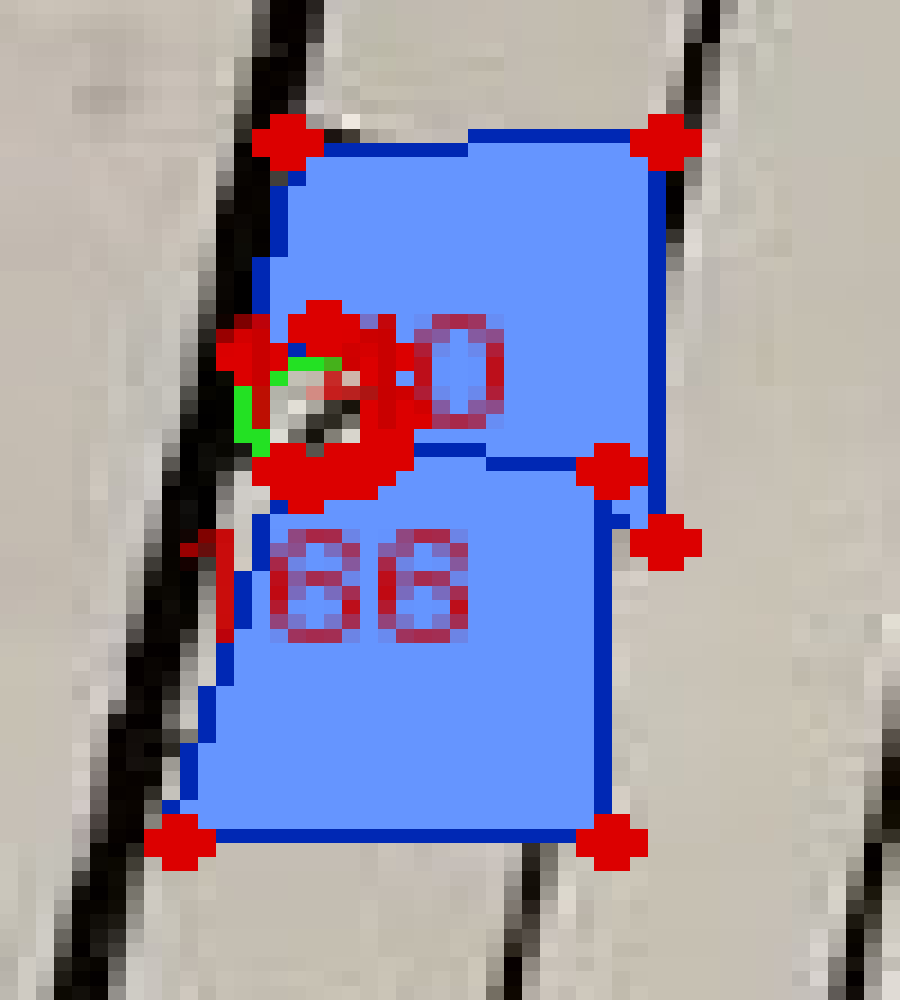
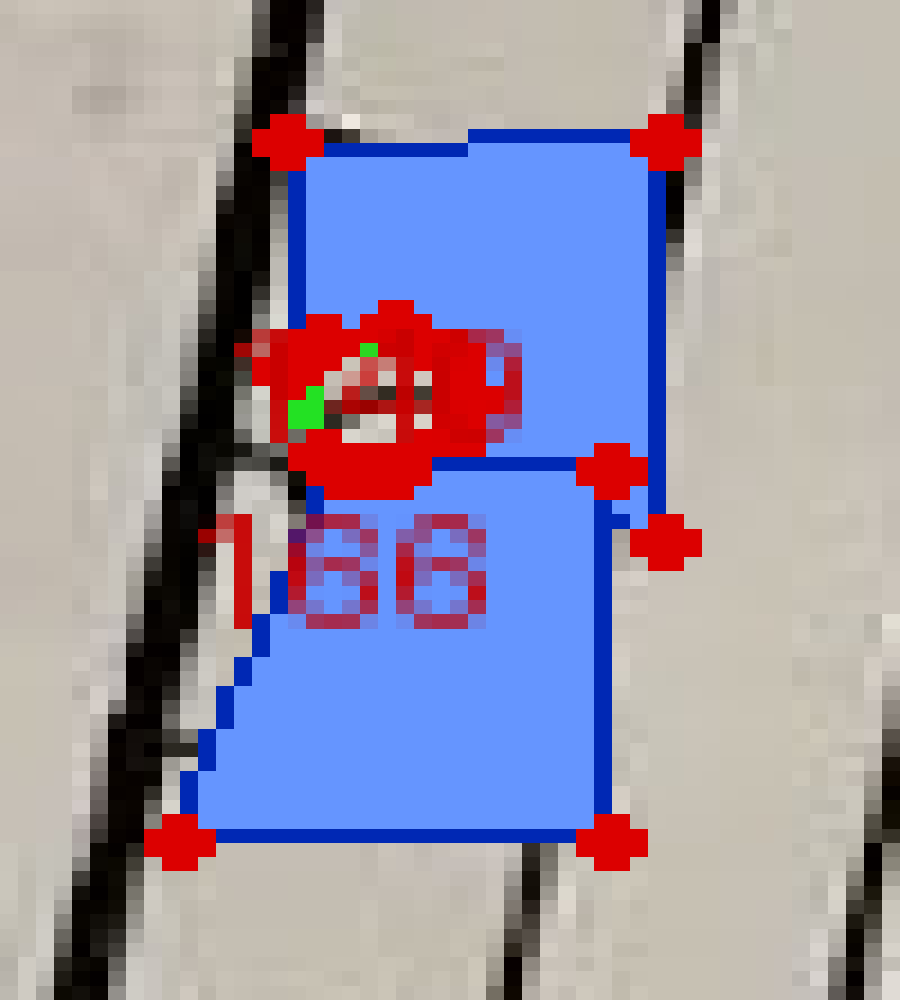
fix: retrace lot 362 polygon to resolve overlap with lot 411 and update dataset

Changed region(s): [[0.1867, 0.186, 0.5911, 0.837]]

diff --git a/scratch/fix_362_overlap.py b/scratch/fix_362_overlap.py
@@ -1,4 +1,4 @@
-"""Retrace lot 362 — small wedge below 411, no overlap."""
+"""Retrace lot 362 — wedge below 411, label inside polygon."""
 import json
 import shutil
 from pathlib import Path
@@ -10,7 +10,7 @@ from PIL import Image, ImageDraw
 W, H = 906, 543
 IDX = 362
 POLY = Path("static/units/lot_plan_polygons.json")
-bak = Path("scratch/lot_plan_polygons_before_fix_362_overlap.json")
+bak = Path("scratch/lot_plan_polygons_before_trace_362.json")
 shutil.copy(POLY, bak)
 
 data = json.loads(POLY.read_text(encoding="utf-8"))
@@ -39,44 +39,17 @@ def to_norm(xy_arr: np.ndarray) -> list:
     return [[float(x / W), float(y / H)] for x, y in xy_arr]
 
 
-def quad_from_hull(hull: np.ndarray) -> np.ndarray:
-    """Reduce a flood hull to a 4-point wedge."""
-    hull = hull.astype(np.float32)
-    if len(hull) == 4:
-        return hull.astype(float)
-    peri = cv2.arcLength(hull, True)
-    for eps in (0.02, 0.03, 0.04, 0.05, 0.06, 0.08, 0.1, 0.15):
-        ap = cv2.approxPolyDP(hull, eps * peri, True).reshape(-1, 2)
-        if len(ap) == 4:
-            return ap.astype(float)
-    if len(hull) == 5:
-        # Drop the single indent vertex on the left edge.
-        xs = hull[:, 0]
-        left = hull[xs <= xs.min() + 1.0]
-        if len(left) == 2:
-            drop = left[np.argmin(left[:, 1])]
-            keep = np.array([p for p in hull if not np.allclose(p, drop)], float)
-            if len(keep) == 4:
-                return keep
-    cx, cy = hull.mean(axis=0)
-    ang = np.arctan2(hull[:, 1] - cy, hull[:, 0] - cx)
-    order = np.argsort(ang)
-    ordered = hull[order]
-    pick = np.linspace(0, len(ordered) - 1, 4, dtype=int)
-    return ordered[pick].astype(float)
-
-
 def nudge_below_411(xy: np.ndarray, m411: np.ndarray) -> np.ndarray:
     """Shift top vertices down until fillPoly has zero overlap with 411."""
     xy = xy.copy()
-    for _ in range(20):
+    for _ in range(30):
         m = np.zeros((H, W), np.uint8)
         cv2.fillPoly(m, [xy.astype(np.int32)], 1)
         if int((m & (m411 // 255)).sum()) == 0:
             return xy
         top_y = xy[:, 1].min()
         for i in range(len(xy)):
-            if xy[i, 1] <= top_y + 0.6:
+            if xy[i, 1] <= top_y + 0.8:
                 xy[i, 1] += 0.5
     return xy
 
@@ -88,46 +61,46 @@ fillable = cv2.bitwise_and(fillable, cv2.bitwise_not(ink))
 blocked = cv2.bitwise_or(ink, mask_of_lot(411))
 allow = cv2.bitwise_and(cv2.bitwise_not(blocked), fillable)
 
-ROI = (605, 508, 622, 520)
-SEEDS = ((610, 514), (618, 516), (612, 515), (615, 518))
+ROI = (585, 507, 622, 522)
+SEED = (598, 512)
 x0, y0, x1, y1 = ROI
 roi_m = np.zeros((H, W), np.uint8)
 roi_m[y0:y1, x0:x1] = 255
 region = cv2.bitwise_and(allow, roi_m)
-comp = np.zeros((H, W), np.uint8)
-for seed in SEEDS:
-    if region[seed[1], seed[0]] == 0:
-        continue
-    mask = np.zeros((H + 2, W + 2), np.uint8)
-    flood = region.copy()
-    cv2.floodFill(flood, mask, seed, 200)
-    trial = (flood == 200).astype(np.uint8) * 255
-    if int(trial.sum()) > int(comp.sum()):
-        comp = trial
+mask = np.zeros((H + 2, W + 2), np.uint8)
+flood = region.copy()
+cv2.floodFill(flood, mask, SEED, 200)
+comp = (flood == 200).astype(np.uint8) * 255
+comp = cv2.bitwise_and(comp, cv2.bitwise_not(mask_of_lot(411)))
+
 flood_px = int(comp.sum() // 255)
-assert flood_px > 20, f"flood region too small: {flood_px}px"
+assert flood_px > 50, f"flood region too small: {flood_px}px"
+mom = cv2.moments(comp)
+label_cx = mom["m10"] / mom["m00"]
+label_cy = mom["m01"] / mom["m00"]
+
 cnts, _ = cv2.findContours(comp, cv2.RETR_EXTERNAL, cv2.CHAIN_APPROX_NONE)
 cnt = max(cnts, key=cv2.contourArea)
-hull = cv2.convexHull(cnt).reshape(-1, 2).astype(float) + 0.5
-xy = quad_from_hull(hull)
+peri = cv2.arcLength(cnt, True)
+xy = cv2.approxPolyDP(cnt, 0.025 * peri, True).reshape(-1, 2).astype(float) + 0.5
 xy = nudge_below_411(xy, mask_of_lot(411))
 
 area_px = abs(float(cv2.contourArea(xy.astype(np.float32))))
 print("npts", len(xy), "area_px", round(area_px, 1))
+print("label", round(label_cx, 1), round(label_cy, 1))
 print("pts", [(round(x, 1), round(y, 1)) for x, y in xy])
 
 m_new = np.zeros((H, W), np.uint8)
 cv2.fillPoly(m_new, [xy.astype(np.int32)], 255)
 ov = int((m_new // 255 & mask_of_lot(411) // 255).sum())
 print("overlap with 411 px", ov)
-assert len(xy) == 4
 assert ov == 0
-assert 50 < area_px < 160
+assert 150 < area_px < 350
 
 lots[IDX] = {
     "points": to_norm(xy),
-    "cx": r4(xy[:, 0].mean() / W),
-    "cy": r4(xy[:, 1].mean() / H),
+    "cx": r4(label_cx / W),
+    "cy": r4(label_cy / H),
     "area": r4(area_px / (W * H)),
 }
 data["lots"] = lots
@@ -139,7 +112,11 @@ for i in [411, IDX]:
     pts = [(p[0] * W, p[1] * H) for p in lots[i]["points"]]
     col = (30, 100, 255, 170) if i == IDX else (255, 120, 30, 120)
     dr.polygon(pts, fill=col, outline=(0, 40, 180, 255))
-    dr.text((lots[i]["cx"] * W - 10, lots[i]["cy"] * H - 5), str(i), fill=(200, 0, 0, 255))
+    dr.text(
+        (lots[i]["cx"] * W - 10, lots[i]["cy"] * H - 5),
+        str(i),
+        fill=(200, 0, 0, 255),
+    )
 vis.crop((580, 495, 630, 525)).resize((1000, 600), Image.NEAREST).save(
     "scratch/fix_362_overlap.png"
 )

diff --git a/scratch/refit_140_166_circle.py b/scratch/refit_140_166_circle.py
@@ -25,33 +25,10 @@ ink = cv2.dilate(ink, np.ones((2, 2), np.uint8), 1)
 fillable = ((gray >= 145) & (gray <= 210)).astype(np.uint8) * 255
 fillable = cv2.bitwise_and(fillable, cv2.bitwise_not(ink))
 
-best = None
-for r_try in (4.5, 5.0, 5.5, 6.0):
-    for cy in range(186, 200):
-        for cx in range(32, 42):
-            ang = np.linspace(0, 2 * math.pi, 40, endpoint=False)
-            ring = np.array(
-                [
-                    gray[
-                        min(H - 1, max(0, int(cy + r_try * math.sin(a)))),
-                        min(W - 1, max(0, int(cx + r_try * math.cos(a)))),
-                    ]
-                    for a in ang
-                ]
-            )
-            ring_m = float(ring.mean())
-            core = float(gray[cy, cx])
-            if ring_m > 115 or core < 150:
-                continue
-            score = core - ring_m
-            if best is None or score > best[0]:
-                best = (score, cx, cy, r_try)
-CX, CY, R = float(best[1]), float(best[2]), float(best[3])
-# Gray sketch circle centroid sits east of ring-detector peak.
-CX += 1.5
-CY += 0.5
+# Aligned to gray sketch circle on left junction (see scratch/inspect_140_166.png).
+CX, CY, R = 41.0, 193.0, 4.5
 R_ARC = R + 0.55
-print("circle", CX, CY, "R", R, "score", round(best[0], 1))
+print("circle", CX, CY, "R", R)
 
 LOTS = {
     140: {"seed": (45, 188), "roi": (28, 172, 60, 204)},
@@ -112,6 +89,7 @@ def point_in_poly(x: float, y: float, poly: np.ndarray) -> bool:
 
 def bevel_inner(xy: np.ndarray) -> np.ndarray:
     n = len(xy)
+    lot_centroid = xy.mean(axis=0)
     dists = [np.linalg.norm(p - [CX, CY]) for p in xy]
     idx = int(np.argmin(dists))
     v = xy[idx]
@@ -128,10 +106,11 @@ def bevel_inner(xy: np.ndarray) -> np.ndarray:
     for da in (da_short, da_long):
         cand = [
             np.array([CX + R_ARC * math.cos(a1 + da * t), CY + R_ARC * math.sin(a1 + da * t)])
-            for t in np.linspace(0, 1, 5)
+            for t in np.linspace(0, 1, 7)
         ]
         mid = cand[len(cand) // 2]
-        if mid[0] > CX + 0.2:
+        toward_lot = lot_centroid - np.array([CX, CY])
+        if np.dot(mid - np.array([CX, CY]), toward_lot) > 0:
             arc = cand
             break
     if arc is None:
@@ -148,7 +127,7 @@ def bevel_inner(xy: np.ndarray) -> np.ndarray:
     xy2 = np.array(out)
     for k, p in enumerate(xy2):
         d = np.linalg.norm(p - [CX, CY])
-        if d < R:
+        if d < R_ARC:
             xy2[k] = np.array([CX, CY]) + (p - np.array([CX, CY])) / max(d, 1e-6) * R_ARC
     return xy2
 
@@ -219,6 +198,19 @@ for i in IDS:
     dr.text((L["cx"] * W - 12, L["cy"] * H - 4), str(i), fill=(200, 0, 0, 255))
 vis.crop((20, 165, 70, 235)).resize((900, 1000), Image.NEAREST).save(
     "scratch/fix_140_166_circle.png"
+)
+
+insp = Image.fromarray(rgb.copy()).convert("RGBA")
+idr = ImageDraw.Draw(insp, "RGBA")
+idr.ellipse([CX - R, CY - R, CX + R, CY + R], outline=(0, 220, 0, 255), width=2)
+for i in IDS:
+    L = lots[i]
+    pts = [(p[0] * W, p[1] * H) for p in L["points"]]
+    xs = [p[0] for p in pts]
+    ys = [p[1] for p in pts]
+    idr.rectangle([min(xs), min(ys), max(xs), max(ys)], outline=(220, 0, 0, 255), width=2)
+insp.crop((28, 168, 58, 230)).resize((900, 1200), Image.NEAREST).save(
+    "scratch/inspect_140_166.png"
 )
 
 ov = Path("scratch/lot_plan_all_indices.png")
